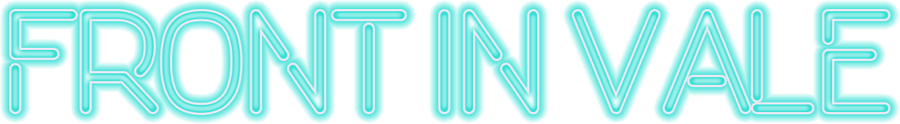
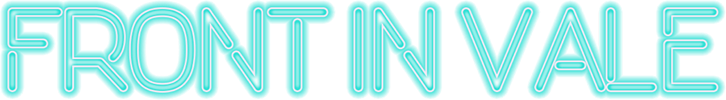
fixed welcome size

diff --git a/_sass/_landing.sass b/_sass/_landing.sass
@@ -208,7 +208,7 @@ section
     font-family: 'cpmono_v07light'
 
   h1
-    margin: 20px 0 70px
+    margin: 10px 0 30px
     padding-top: 14%
     text-indent: -9999px
     overflow: hidden
@@ -219,15 +219,18 @@ section
       margin-bottom: 0px
 
     + p
-      font-size: 40px
+      font-size: 30px
       @media only screen and (max-width: 849px)
-        font-size: 30px
+        font-size: 20px
 
 
   .fv-social
     a
       display: inline-block
-      margin: 0 25px
+      margin: 0 15px
+
+      img
+        max-width: 40px
 
 .fv-join,
 .fv-maps
